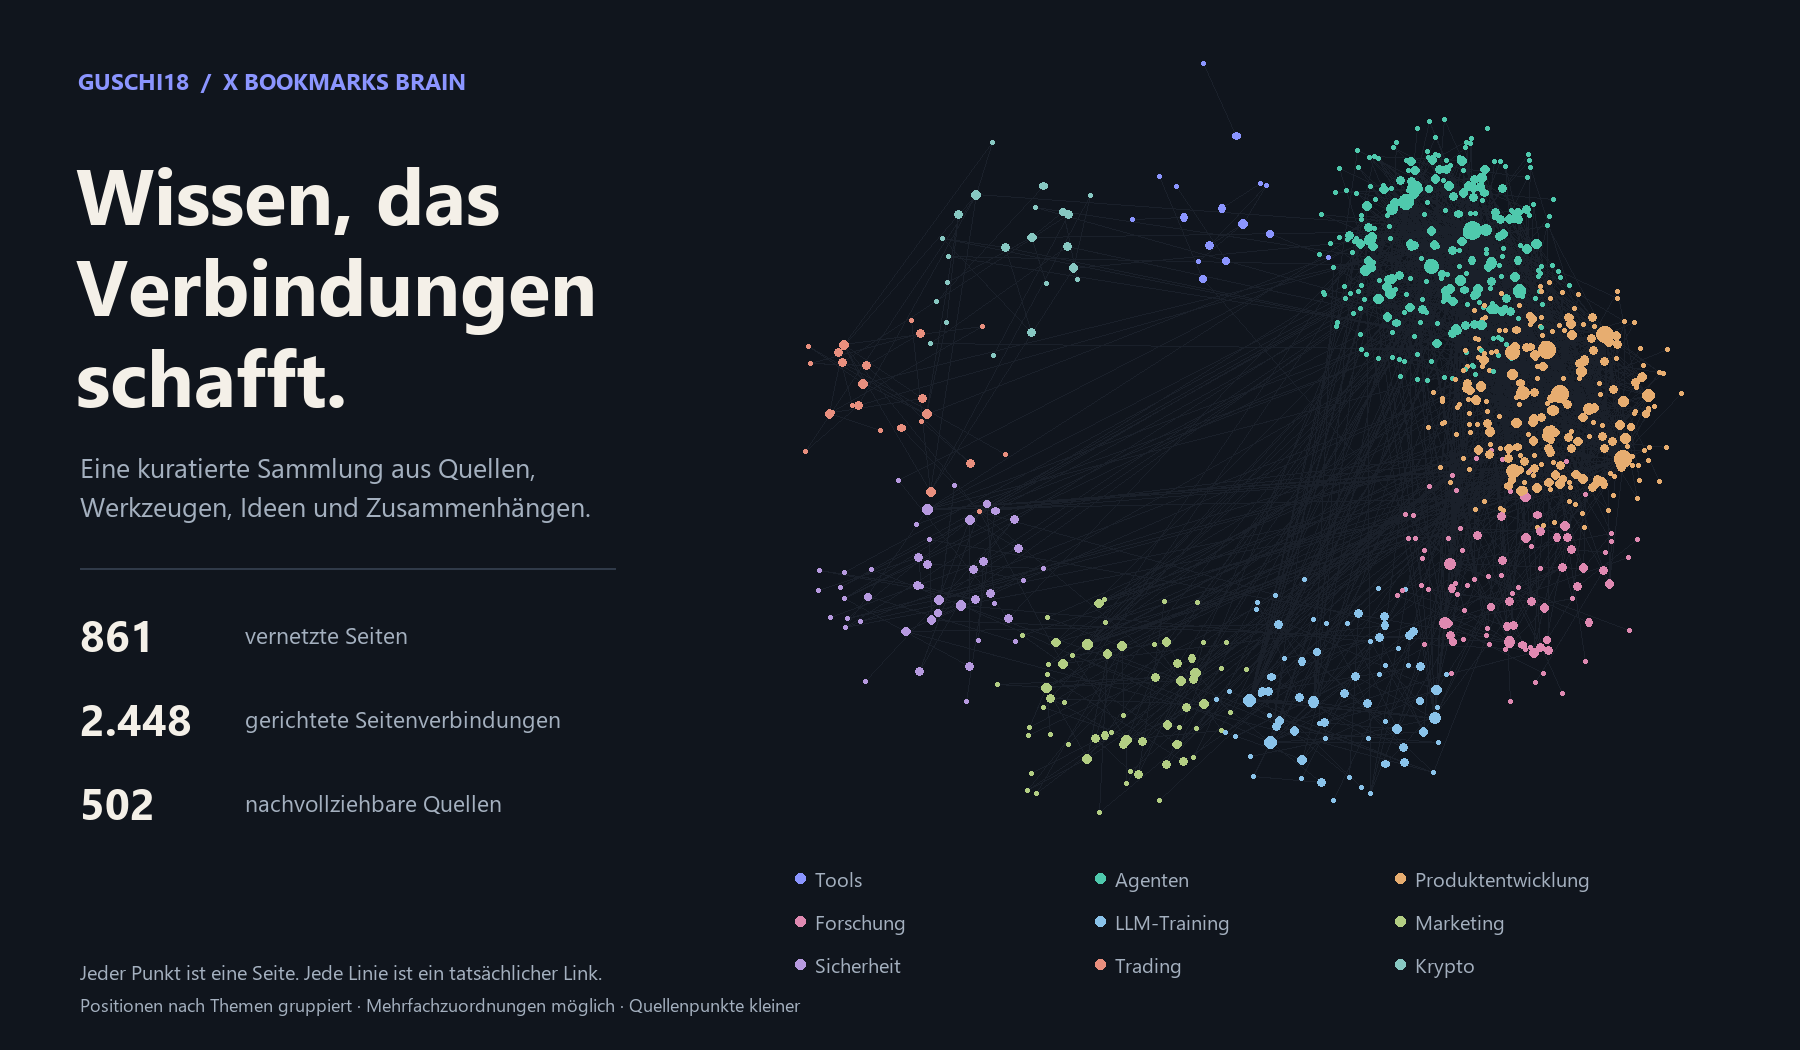
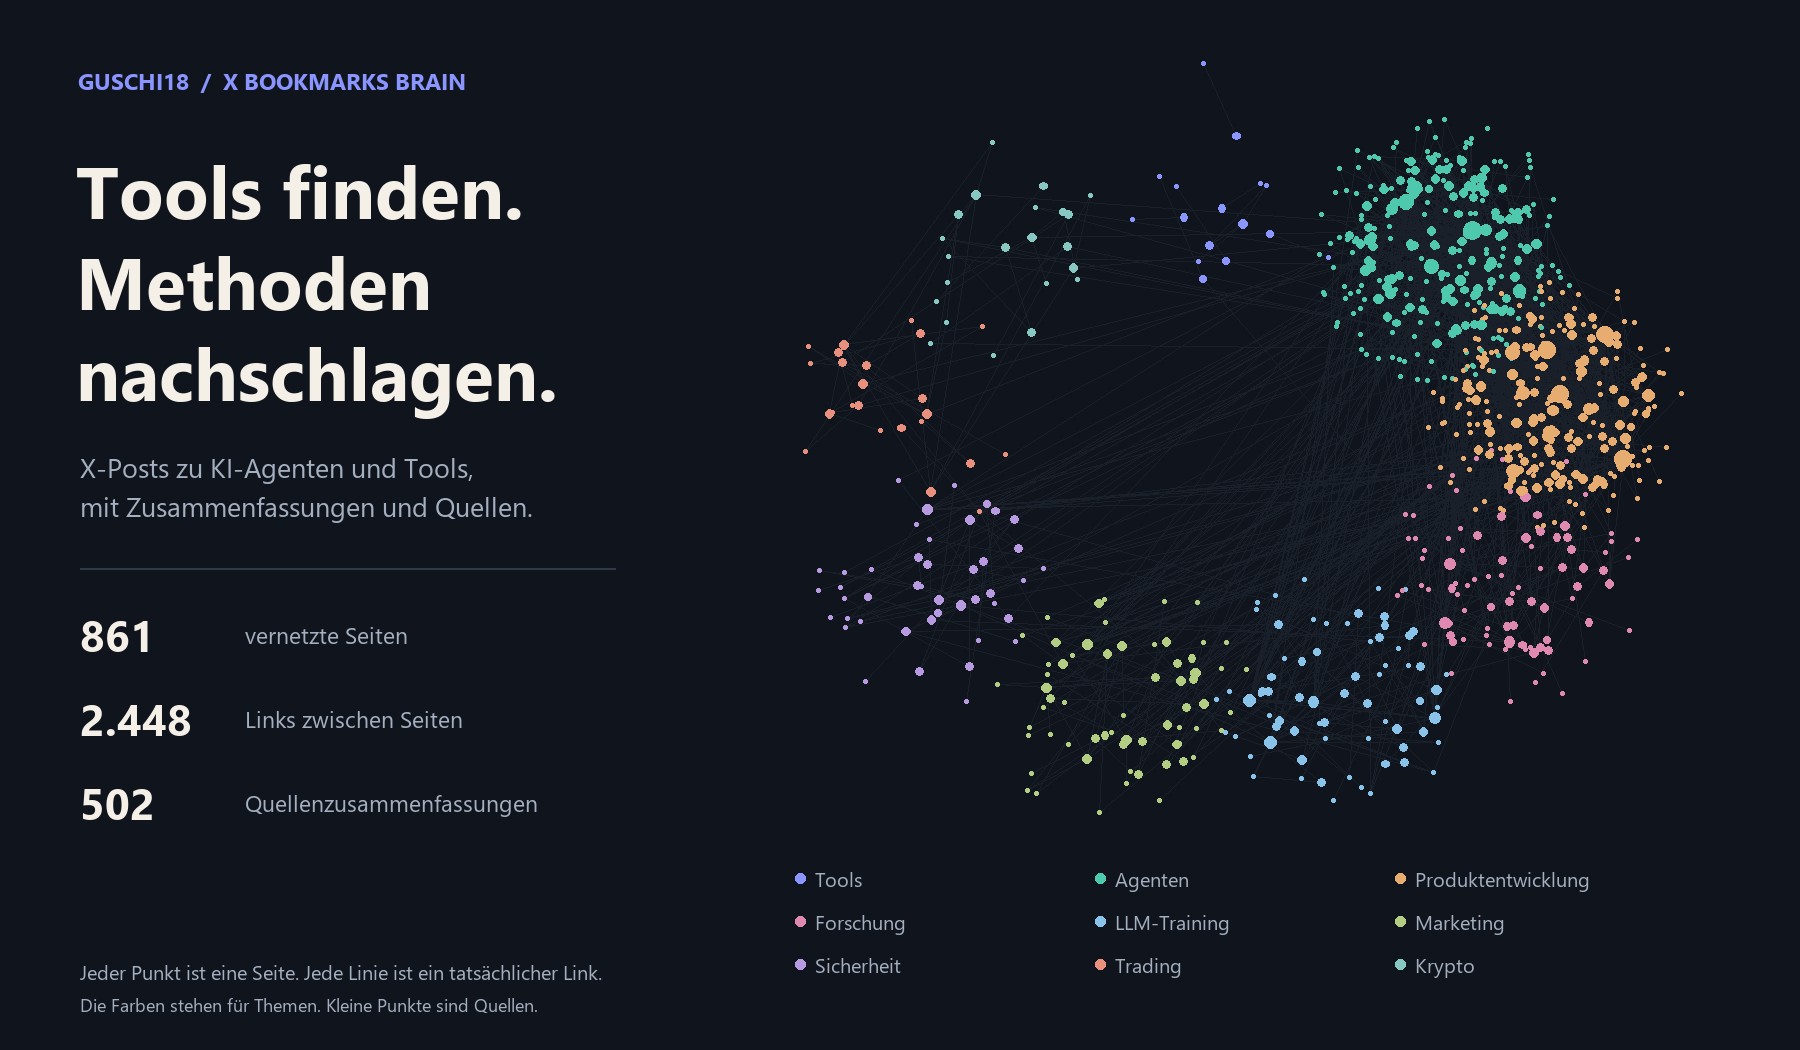
Update public brain (861 pages, 2026-10-25)

diff --git a/README.md b/README.md
@@ -1,66 +1,82 @@
 # X Bookmarks Brain
 
-### Wissen, das Verbindungen schafft.
+Finde Tools und Methoden für deine Arbeit mit KI-Agenten.
 
-Aus gespeicherten **X-Bookmarks** wird vernetztes Wissen: eine persönliche, laufend gepflegte Sammlung von **guschi18**, lesbar auf GitHub und als Obsidian-Vault. Die Quellen werden zu verknüpften Seiten über Werkzeuge, Menschen, Konzepte und Zusammenhänge. Der Schwerpunkt liegt auf KI-Agenten und Tools; hinzu kommen Produktentwicklung, Forschung, Marketing, Trading und weitere Interessen.
+Hier findest du meine gespeicherten X-Posts als Wiki: mit Zusammenfassungen, Seiten zu einzelnen Tools und Methoden sowie Links zu den Originalquellen. Du kannst ein Thema nachschlagen, verwandte Werkzeuge entdecken und bei einer Aussage nachlesen, worauf sie sich stützt.
 
-![Die tatsächlichen Seiten und Verknüpfungen des Obsidian Brains](assets/brain-map.png)
+Die meisten Seiten beschäftigen sich mit KI-Agenten und Tools. Daneben sammle ich Beiträge zu Produktentwicklung, Marketing, Forschung, Trading und weiteren Interessen. Du kannst die Sammlung hier auf GitHub lesen oder als Vault in Obsidian öffnen.
 
-**861 Inhaltsseiten · 278 Entitäten · 75 Konzepte · 6 Synthesen · 502 Quellen**
+[Themen durchsuchen](THEMEN.md) · [Alle Seiten](index.md) · [In Obsidian öffnen](START.md)
 
-Letzte inhaltliche Pflege im enthaltenen Wiki: **2026-10-25**. Das Datum ist kein Beleg für die Aktualität jeder einzelnen Aussage.
+![Seiten und Links im X Bookmarks Brain](assets/brain-map.png)
 
-[Hier anfangen](START.md) · [Themen entdecken](THEMEN.md) · [Alle Seiten](index.md) · [Aktualität & Quellen](AKTUALITAET.md)
+## Womit du anfangen kannst
 
-## Vom gespeicherten Post zum vernetzten Wissen
+### Coding-Agenten einsetzen
 
-Ein Bookmark ist zunächst eine einzelne Quelle. Dieses Brain verbindet seine Inhalte mit passenden Themen: Ein Werkzeug landet auf einer Entitätsseite, ein wiederkehrendes Muster auf einer Konzeptseite. Quellenverweise machen die Herkunft nachvollziehbar; Synthesen führen mehrere Perspektiven zusammen.
+Lies nach, welche Rolle Claude Code übernimmt und welche Arbeitsweisen unter Agentic Engineering gesammelt sind.
 
-So lässt sich von einer Frage zu einem Konzept, von dort zu einem konkreten Werkzeug und schließlich zur ursprünglichen Quelle navigieren. Die Sammlung ist persönlich kuratiert und quellenbasiert; eine unabhängige Prüfung sämtlicher Behauptungen ist damit nicht verbunden.
+[Claude Code](entities/Claude%20Code.md) · [Agentic Engineering](concepts/Agentic%20Engineering.md)
 
-## Was du hier findest
+### Kontext und Wissen für Agenten organisieren
 
-| Ebene | Inhalt | Umfang |
+Hier findest du Ansätze für Kontextverwaltung und ein Wiki als Gedächtnis für Agenten.
+
+[Context Engineering](concepts/Context%20Engineering.md) · [LLM Wiki Pattern](concepts/LLM%20Wiki%20Pattern.md)
+
+### Mit KI Produkte gestalten
+
+Diese Seiten behandeln Designvorgaben und Skills für Gestaltungsaufgaben.
+
+[Design Markdown](entities/Design%20Markdown.md) · [Design Skills for Coding Agents](concepts/Design%20Skills%20for%20Coding%20Agents.md)
+
+### Marketing-Ideen nachschlagen
+
+Stöbere in einer Taktikensammlung und sieh dir an, welche Aufgaben Marketing-Skills abdecken.
+
+[Vibe Marketing Tactics](concepts/Vibe%20Marketing%20Tactics.md) · [Aaron Marketing Skills](entities/Aaron%20Marketing%20Skills.md)
+
+### Lesestoff zu KI und Data Science finden
+
+Die Leseliste führt zu Büchern und den zugehörigen Quellen.
+
+[AI and Data Science Reading List](synthesis/AI%20and%20Data%20Science%20Reading%20List.md)
+
+## Was die Sammlung abdeckt
+
+![Seiten pro Thema](assets/topics.png)
+
+Eine Seite kann mehrere Themen haben. Die Grafik zählt die Seiten über Tools, Konzepte und Zusammenstellungen; die separaten Quellenzusammenfassungen kommen hinzu.
+
+| Hier kannst du nachschlagen | Inhalt | Seiten |
 | --- | --- | ---: |
-| [Entitäten](index.md#entitäten) | Produkte, Tools, Organisationen und Personen | 278 |
-| [Konzepte](index.md#konzepte) | Ideen, Methoden und wiederkehrende Muster | 75 |
-| [Synthesen](index.md#synthesen) | Verbindungen und Zusammenstellungen über einzelne Seiten hinaus | 6 |
-| [Quellen](index.md#quellen) | Zusammenfassungen mit Verweisen auf die Originale | 502 |
+| [Tools und Personen](index.md#entitäten) | Auch Produkte und Organisationen | 278 |
+| [Konzepte und Methoden](index.md#konzepte) | Erklärungen und Arbeitsweisen | 75 |
+| [Leselisten und Zusammenstellungen](index.md#synthesen) | Beiträge zu einem gemeinsamen Thema | 6 |
+| [Quellen](index.md#quellen) | Zusammenfassungen mit Originallinks | 502 |
 
-![Thematische Verteilung der Wissensseiten](assets/topics.png)
+Insgesamt 861 Inhaltsseiten. Die zuletzt gepflegte Seite hat den Stand 2026-10-25.
 
-Die Themen überschneiden sich: Eine Seite kann mehrere Tags tragen. Die Grafik zählt Wissensseiten ohne die separaten Quellenzusammenfassungen. Sie zeigt die Schwerpunkte dieser Sammlung, keine Rangliste der Fachgebiete.
+## Eine Aussage bis zur Quelle verfolgen
 
-## Drei Einstiege
+Auf den Wissensseiten führen Quellenlinks zur jeweiligen Zusammenfassung. Dort findest du den Autor, den Originalpost und Links zu gespeicherten Artikeln, soweit vorhanden. So kannst du prüfen, ob ein Tipp zu deinem Vorhaben passt und ob der Originaltext deine Frage beantwortet.
 
-### Agenten & Kontext
+Die Auswahl ist persönlich. Herstellerangaben und Erfahrungsberichte sind keine unabhängigen Tests. Preise, Versionen und andere Angaben können veraltet sein; das Pflegedatum einer Seite bestätigt nicht jede Aussage erneut. Hinweise dazu stehen unter [Aktualität und Quellen](AKTUALITAET.md).
 
-[Context Engineering](concepts/Context%20Engineering.md) → [Agentic Engineering](concepts/Agentic%20Engineering.md) → [LLM Wiki Pattern](concepts/LLM%20Wiki%20Pattern.md)
+## Das Wiki in Obsidian nutzen
 
-### Werkzeuge & Produktentwicklung
+Lade das Repository herunter und öffne den Ordner als Vault. Du kannst dann die Volltextsuche, Rückverweise und den Graphen von Obsidian verwenden. Zusätzliche Plugins oder API-Schlüssel brauchst du zum Lesen nicht. Die [Schritt-für-Schritt-Anleitung](START.md) führt dich durch den Download.
 
-[Claude Code](entities/Claude%20Code.md) → [Design Markdown](entities/Design%20Markdown.md) → [Design Skills for Coding Agents](concepts/Design%20Skills%20for%20Coding%20Agents.md)
-
-### Quellen & Vergleiche
-
-[AI and Data Science Reading List](synthesis/AI%20and%20Data%20Science%20Reading%20List.md) → [AI Engineering and Design Accounts](synthesis/AI%20Engineering%20and%20Design%20Accounts.md) → [AI Learning Accounts](synthesis/AI%20Learning%20Accounts.md) → [Free Ebook Resources](synthesis/Free%20Ebook%20Resources.md)
-
-## In Obsidian öffnen
-
-1. Auf GitHub **Code → Download ZIP** wählen und das ZIP entpacken. Alternativ dieses öffentliche Repository klonen.
-2. In Obsidian **Ordner als Vault öffnen** wählen und den entpackten Repository-Ordner öffnen.
-3. Mit **START.md** beginnen. Suche, Rückverweise und Graph helfen beim Erkunden.
-
-Die Seiten verwenden relative Markdown-Links. Dadurch lassen sie sich auf GitHub und in Obsidian lesen. Zusätzliche Plugins, Konten oder API-Schlüssel sind zum Lesen nicht erforderlich.
+Die Seiten verwenden relative Markdown-Links und lassen sich auch direkt auf GitHub lesen.
 
 ## Aktuell bleiben
 
-Dieses Repository ist die veröffentlichte Ausgabe des Brains. Neue freigegebene Stände ersetzen und ergänzen die Seiten; entfernte Seiten werden ebenfalls übernommen. Die Git-Historie zeigt die Änderungen zwischen veröffentlichten Ständen.
+Ich pflege die Sammlung weiter. Neue Stände ergänzen und überarbeiten Seiten; dabei können Seiten auch umbenannt werden oder entfallen. Die Commit-Historie auf GitHub zeigt dir die Änderungen.
 
-Bei einem Clone holt `git pull --ff-only` den neuesten Stand. Eigene Notizen am besten in einem separaten Vault halten oder separat sichern, damit Aktualisierungen nicht mit eigenen Änderungen kollidieren. Ein ZIP aktualisiert sich nicht selbst; lade bei Bedarf eine neue Ausgabe herunter.
+Bei einem Clone holt `git pull --ff-only` den neuesten Stand. Ein ZIP aktualisiert sich nicht selbst: Lade bei Bedarf eine neue Ausgabe herunter. Halte eigene Notizen separat oder sichere sie vor einem Update, damit sie nicht mit Änderungen dieser Sammlung kollidieren.
 
-## Quellen, Grenzen und Nutzung
+## Welche Inhalte mitgeliefert werden
 
-Öffentliche Quellenseiten enthalten redaktionelle Zusammenfassungen, Links und Zuordnungen. Vollständige gespeicherte Fremdtexte, Transkripte und Originalbilder werden nicht mitgeliefert. Aussagen bleiben vom jeweiligen Quellenstand abhängig; insbesondere Herstellerbehauptungen und persönliche Erfahrungsberichte sind entsprechend einzuordnen.
+Die Quellenseiten enthalten Zusammenfassungen und Links. Vollständige gespeicherte Fremdtexte, Transkripte und Originalbilder gehören nicht zu dieser Ausgabe. Wenn eine Seite auf einen vollständigen Wortlaut im Archiv verweist, folge für diese Ausgabe dem Originallink.
 
-Mehr dazu: [Aktualität und Evidenz](AKTUALITAET.md) · [Nutzung und Rechte](NUTZUNG.md).
+Für die Sammlung ist derzeit keine pauschale offene Lizenz vergeben. Einzelheiten stehen unter [Nutzung und Rechte](NUTZUNG.md).

diff --git a/START.md b/START.md
@@ -1,27 +1,53 @@
-# Dein Einstieg ins Brain
+# So nutzt du die Sammlung
 
-Du kannst dieses Brain direkt auf GitHub lesen oder als Ordner in Obsidian öffnen. Beginne mit einem Thema, folge den Seitenlinks und prüfe bei einer interessanten Aussage die verknüpfte Quelle.
+Wähle in der [Themenübersicht](THEMEN.md) ein Gebiet aus oder suche im [Katalog](index.md) nach einem Toolnamen. Die Links innerhalb einer Seite führen dich zu verwandten Themen und den verwendeten Quellen. Einige Einstiege:
 
-### Agenten & Kontext
+### Coding-Agenten einsetzen
 
-[Context Engineering](concepts/Context%20Engineering.md) → [Agentic Engineering](concepts/Agentic%20Engineering.md) → [LLM Wiki Pattern](concepts/LLM%20Wiki%20Pattern.md)
+Lies nach, welche Rolle Claude Code übernimmt und welche Arbeitsweisen unter Agentic Engineering gesammelt sind.
 
-### Werkzeuge & Produktentwicklung
+[Claude Code](entities/Claude%20Code.md) · [Agentic Engineering](concepts/Agentic%20Engineering.md)
 
-[Claude Code](entities/Claude%20Code.md) → [Design Markdown](entities/Design%20Markdown.md) → [Design Skills for Coding Agents](concepts/Design%20Skills%20for%20Coding%20Agents.md)
+### Kontext und Wissen für Agenten organisieren
 
-### Quellen & Vergleiche
+Hier findest du Ansätze für Kontextverwaltung und ein Wiki als Gedächtnis für Agenten.
 
-[AI and Data Science Reading List](synthesis/AI%20and%20Data%20Science%20Reading%20List.md) → [AI Engineering and Design Accounts](synthesis/AI%20Engineering%20and%20Design%20Accounts.md) → [AI Learning Accounts](synthesis/AI%20Learning%20Accounts.md) → [Free Ebook Resources](synthesis/Free%20Ebook%20Resources.md)
+[Context Engineering](concepts/Context%20Engineering.md) · [LLM Wiki Pattern](concepts/LLM%20Wiki%20Pattern.md)
 
-## Gezielt stöbern
+### Mit KI Produkte gestalten
 
-- [Themenübersicht](THEMEN.md): Seiten nach ihren Tags entdecken.
-- [Gesamtkatalog](index.md): jede veröffentlichte Inhaltsseite.
-- In Obsidian: einen Seitennamen suchen, die lokalen Rückverweise ansehen und den lokalen Graphen öffnen.
+Diese Seiten behandeln Designvorgaben und Skills für Gestaltungsaufgaben.
 
-## Ein Beispiel
+[Design Markdown](entities/Design%20Markdown.md) · [Design Skills for Coding Agents](concepts/Design%20Skills%20for%20Coding%20Agents.md)
 
-[Context Engineering](concepts/Context%20Engineering.md) verbindet eine Idee mit konkreten Verfahren und Werkzeugen. Die Quellenlinks auf der Seite führen zu den jeweiligen Zusammenfassungen und Originalposts. Die Beziehungen im Graphen zeigen vorhandene Links; sie sind keine Bestätigung der verknüpften Aussagen.
+### Marketing-Ideen nachschlagen
+
+Stöbere in einer Taktikensammlung und sieh dir an, welche Aufgaben Marketing-Skills abdecken.
+
+[Vibe Marketing Tactics](concepts/Vibe%20Marketing%20Tactics.md) · [Aaron Marketing Skills](entities/Aaron%20Marketing%20Skills.md)
+
+### Lesestoff zu KI und Data Science finden
+
+Die Leseliste führt zu Büchern und den zugehörigen Quellen.
+
+[AI and Data Science Reading List](synthesis/AI%20and%20Data%20Science%20Reading%20List.md)
+
+## Von einem Thema zur Originalquelle
+
+Öffne zum Beispiel [Context Engineering](concepts/Context%20Engineering.md). Lies einen Abschnitt, der dich interessiert, und folge seinem Quellenlink. Die Quellenseite fasst den Beitrag zusammen und verlinkt den Originalpost. Prüfe dort den Kontext und das Veröffentlichungsdatum, bevor du eine Empfehlung übernimmst.
+
+## In Obsidian öffnen
+
+1. Wähle oben auf der GitHub-Seite **Code → Download ZIP**. Wenn du Git verwendest, kannst du das Repository stattdessen klonen.
+2. Entpacke das ZIP in einen eigenen Ordner.
+3. Wähle in Obsidian **Ordner als Vault öffnen** und öffne diesen Ordner.
+
+Mit der Volltextsuche findest du Begriffe auch innerhalb der Seiten. Rückverweise zeigen, welche anderen Seiten auf das aktuelle Thema verweisen. Im lokalen Graphen siehst du die benachbarten Themen; die Verbindungen sind Seitenlinks und keine Bestätigung der Aussagen.
+
+## Neue Stände herunterladen
+
+Wenn du Git verwendest, führe im geklonten Ordner `git pull --ff-only` aus. Wenn du ein ZIP heruntergeladen hast, lade die neue Ausgabe erneut herunter und entpacke sie in einen neuen Ordner. Sichere eigene Notizen vor dem Wechsel.
+
+Hinweise zum Quellenstand findest du unter [Aktualität und Quellen](AKTUALITAET.md), die Bedingungen zur Weiterverwendung unter [Nutzung und Rechte](NUTZUNG.md).
 
 [Zur Startseite](README.md)

diff --git a/AKTUALITAET.md b/AKTUALITAET.md
@@ -1,14 +1,23 @@
-# Aktualität und Evidenz
+# Quellen und Aktualität
 
-Letzte inhaltliche Pflege einer enthaltenen Seite: **2026-10-25**.
+Die zuletzt gepflegte Seite hat den Stand 2026-10-25. Einzelne Abschnitte können sich auf deutlich ältere Beiträge beziehen.
 
-- Die Angaben `created` und `updated` stehen im Metadatenblock jeder Inhaltsseite. `updated` bezeichnet die Seitenpflege, keine erneute Prüfung jeder Aussage.
-- Datierte Abschnitte beschreiben häufig einen historischen Stand. Versionsnummern, Preise, Leistungsangaben und Verfügbarkeit können sich inzwischen geändert haben.
-- Quellenzusammenfassungen verweisen auf Originalposts und, soweit gespeichert, auf die ursprünglichen Artikel. Originalseiten können verändert oder nicht mehr erreichbar sein.
-- Herstellerangaben, persönliche Erfahrungen und unabhängig belegte Ergebnisse sind verschieden starke Evidenz. Die Verknüpfung einer Quelle ist kein Gütesiegel.
-- Die öffentliche Ausgabe enthält Zusammenfassungen und Quellenlinks; interne Belegarchive und Originalmedien gehören nicht dazu. Einzelne Hinweise auf einen vollständigen Wortlaut beziehen sich auf das interne Archiv; öffentlich ist der Originallink maßgeblich.
-- Die veröffentlichten Seiten werden automatisch auf vorhandene Linkziele, ausgeschlossene Belegblöcke, die Dateiauswahl und typische Zugangsdatenmuster geprüft. Diese Prüfungen ersetzen keine vollständige redaktionelle oder inhaltliche Kontrolle.
+## Prüfe den Stand einer Empfehlung
 
-Trading-, Krypto- und Gesundheitsthemen sind Teil der Wissenssammlung. Die Seiten dokumentieren Quellen und sind keine persönliche Handlungsanweisung.
+Auf jeder Inhaltsseite stehen `created` und `updated` im Metadatenblock. `updated` bezeichnet die letzte Seitenpflege. Es bedeutet nicht, dass jede Aussage erneut geprüft wurde. Achte deshalb auch auf die Datumsangaben im jeweiligen Abschnitt und im Originalbeitrag.
+
+Preise, Versionen, Verfügbarkeit und Leistungsangaben können sich ändern. Folge dem Quellenlink, wenn du eine Empfehlung verwenden möchtest. Originalseiten können inzwischen überarbeitet oder nicht mehr erreichbar sein.
+
+## Ordne die Quelle ein
+
+Eine Herstellerangabe, ein persönlicher Erfahrungsbericht und ein unabhängig belegtes Ergebnis haben unterschiedliche Aussagekraft. Die Verknüpfung einer Quelle bestätigt deren Behauptungen nicht. Die Sammlung bildet meine Auswahl ab; sie ist kein vollständiger Überblick über ein Fachgebiet.
+
+Die automatischen Prüfungen kontrollieren die Struktur und Links sowie typische private Inhalte im Export. Sie ersetzen keinen Faktencheck sämtlicher Aussagen.
+
+## Was du auf einer Quellenseite findest
+
+Die Quellenseite nennt den Autor, verlinkt den Originalpost und fasst den gespeicherten Beitrag zusammen. Links zu zugehörigen Artikeln stehen dort, soweit vorhanden. Vollständige Fremdtexte, Transkripte und Originalmedien gehören nicht zu dieser Ausgabe. Wenn eine Wissensseite einen vollständigen Wortlaut im Archiv erwähnt, verwende hier den Originallink.
+
+Trading-, Krypto- und Gesundheitsthemen sind ebenfalls enthalten. Die Seiten dokumentieren Beiträge und sind keine persönliche Handlungsanweisung.
 
 [Zur Startseite](README.md)

diff --git a/NUTZUNG.md b/NUTZUNG.md
@@ -1,7 +1,5 @@
 # Nutzung und Rechte
 
-Diese Ausgabe wird zum Lesen und Erkunden als Markdown-Wissenssammlung bereitgestellt.
-
 Für die Sammlung ist derzeit keine pauschale offene Lizenz vergeben. Öffentliche Verfügbarkeit allein erlaubt nicht automatisch jede Weiterveröffentlichung oder kommerzielle Nutzung. Wenn du Inhalte weiterverwenden möchtest, kläre die entsprechenden Rechte mit den Rechteinhabern.
 
 Verlinkte Beiträge, Artikel, Produktnamen und sonstige Fremdinhalte gehören ihren jeweiligen Rechteinhabern. Die Quellenlinks dienen der Zuordnung; sie übertragen keine Rechte. Vollständige gespeicherte Fremdtexte, Transkripte und Originalbilder sind nicht Teil dieser Ausgabe.

diff --git a/THEMEN.md b/THEMEN.md
@@ -1,10 +1,10 @@
-# Die Themen des Brains
+# Themen durchsuchen
 
 [Start](README.md) · [Alle Seiten](index.md)
 
-![Thematische Schwerpunkte](assets/topics.png)
+![Seiten pro Thema](assets/topics.png)
 
-Seiten können mehrere Tags tragen. Die Zuordnung folgt der Kuratierung des Brains.
+Wähle ein Thema und öffne eine Seite, die dich interessiert. Manche Seiten erscheinen in mehreren Abschnitten, weil sie mehrere Themen behandeln.
 
 ## Tools
 
